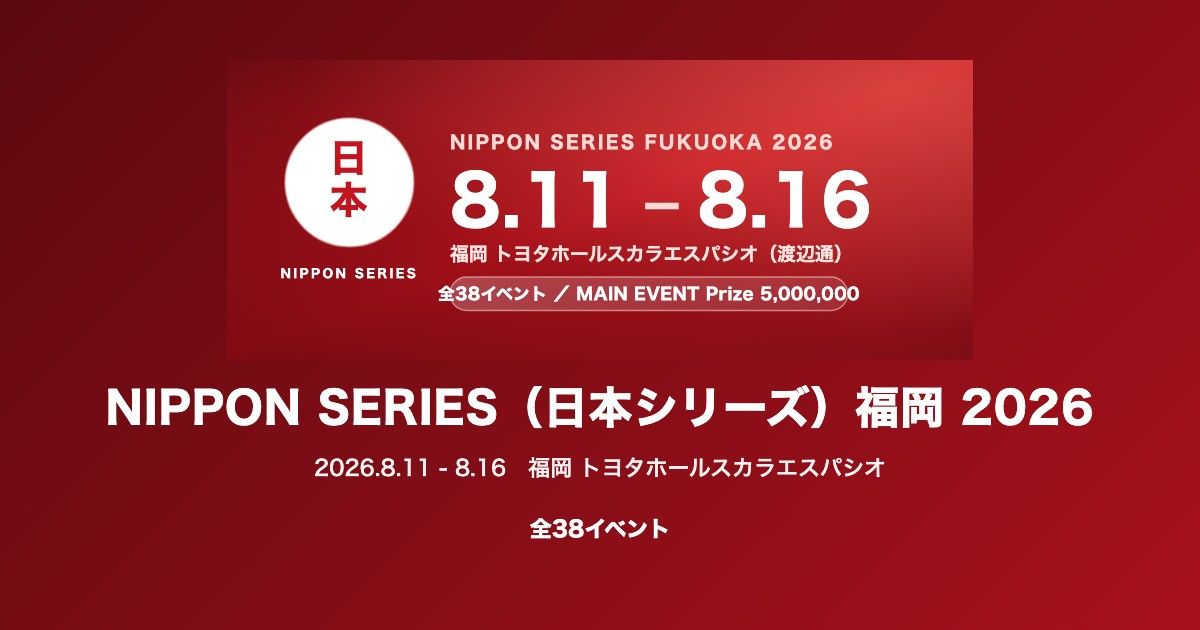
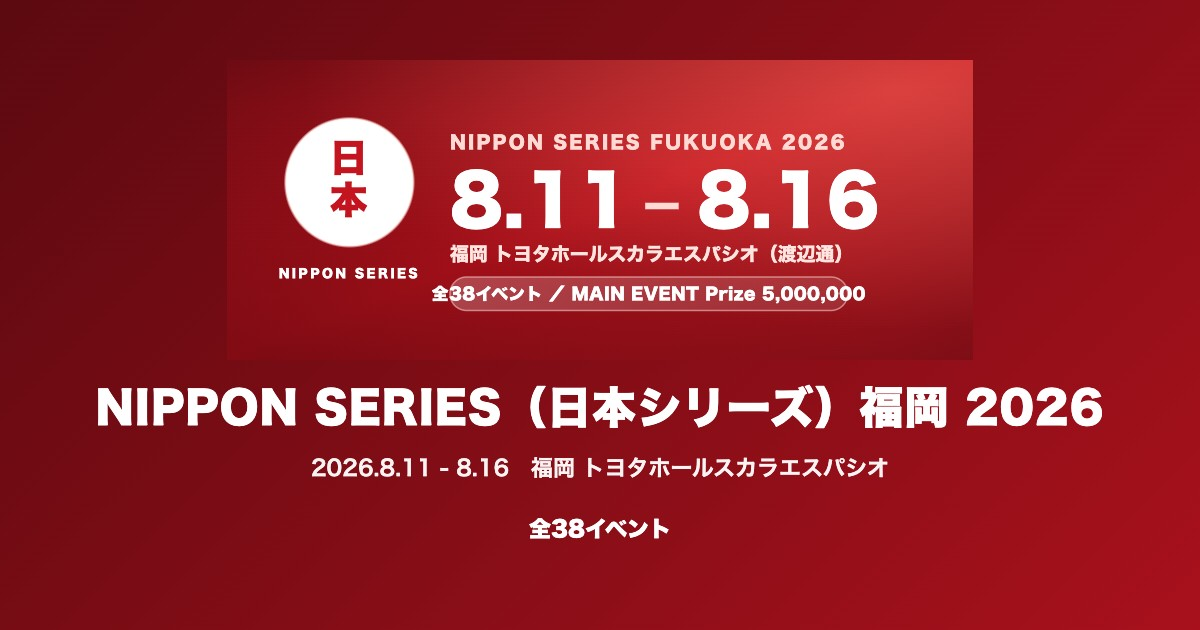
fix(brand): サイト共通OGP画像(common-og.jpg)を新配色に
SNSでシェアされたときのカード画像が、深緑×金の最初期配色のまま取り残されていた。
墨色の地に琥珀のアクセントへ差し替え、Playwrightで6枚すべて再生成した
(大会別5枚は各大会のブランド色のため対象外、見た目に変化なし)。

diff --git a/tools/gen-ogp-images.js b/tools/gen-ogp-images.js
@@ -116,16 +116,16 @@ function page(bodyHtml, extraStyle) {
 function buildCommon() {
   const venueCount = DATA.VENUES.length;
   const style = `
-    body{background:linear-gradient(135deg,#0f3d2e,#14513c)}
-    .wm{position:absolute;font-size:340px;opacity:.07;line-height:1;user-select:none}
+    body{background:linear-gradient(135deg,#0E1A2B,#1C2A40)}
+    .wm{position:absolute;font-size:340px;opacity:.08;line-height:1;user-select:none;color:#F2C27A}
     .wm.a{left:-60px;top:-90px}
     .wm.b{right:-60px;bottom:-110px}
     .center{align-items:center;justify-content:center;text-align:center;gap:22px}
     .logo{font-size:56px;font-weight:800;display:flex;align-items:center;gap:16px}
-    .logo .pip{color:#f0c56b;font-size:60px}
-    .sub{font-size:28px;font-weight:700;color:#e9f2ec}
+    .logo .pip{color:#F2C27A;font-size:60px}
+    .sub{font-size:28px;font-weight:700;color:#D6DEE8}
     .chips{display:flex;gap:16px;margin-top:18px}
-    .chip{background:#fff;color:#0f3d2e;font-size:19px;box-shadow:0 2px 12px rgba(0,0,0,.25)}
+    .chip{background:#FAFBFC;color:#0E1A2B;font-size:19px;box-shadow:0 2px 12px rgba(0,0,0,.25)}
   `;
   const body = `
     <div class="wm a">♠</div>
